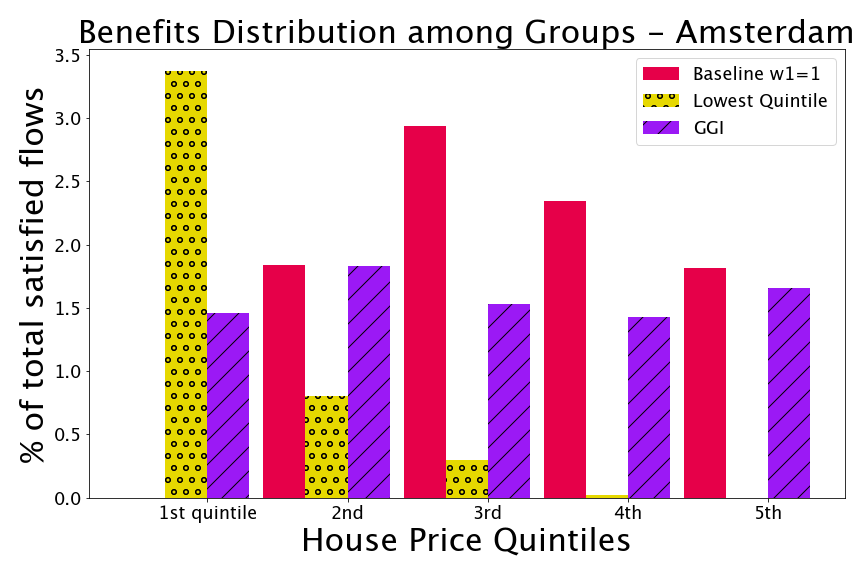
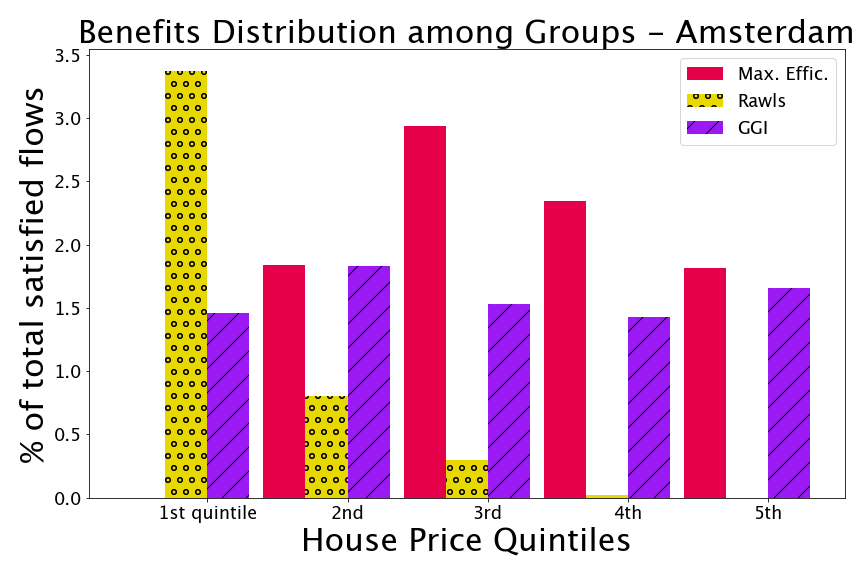
result_plotter now also plots weighted results

Changed region(s): [[0.7188, 0.0938, 0.9688, 0.25]]

diff --git a/result_plotter.py b/result_plotter.py
@@ -3,6 +3,7 @@
 from collections import defaultdict
 from genericpath import isfile
 from pathlib import Path
+from tokenize import group
 from typing import List
 import matplotlib.pyplot as plt
 import json
@@ -84,11 +85,14 @@ def print_stats(df, model:str):
 
     return od, gini, lq
 
-def plot_bar(model_names, model_labels, model_colors, model_hatches, metrics_df: pd.DataFrame, env_name: str, figsize=(10, 5), legend_loc='best'):
+def plot_bar(model_names, model_labels, model_colors, model_hatches, 
+            metrics_df: pd.DataFrame, env_name: str, figsize=(10, 5), 
+            legend_loc='best',
+            group_names=('1st quintile', '2nd', '3rd', '4th', '5th')):
     # https://stackoverflow.com/questions/10369681/how-to-plot-bar-graphs-with-same-x-coordinates-side-by-side-dodged
     # Width of a bar 
     width = 0.3
-    ind = np.arange(5)
+    ind = np.arange(len(group_names))
     xpos = ind
     fig, ax = plt.subplots(figsize=figsize)
     for i, model in enumerate(model_names):
@@ -104,7 +108,7 @@ def plot_bar(model_names, model_labels, model_colors, model_hatches, metrics_df:
     plt.ylabel('% of total satisfied flows', fontsize=32)
     
     plt.title(f"Benefits Distribution among Groups - {env_name}", fontsize=32)
-    plt.xticks(ind + width * 3 / 2, ('1st quintile', '2nd', '3rd', '4th', '5th'))
+    plt.xticks(ind + width * 3 / 2, group_names)
 
     ax.legend(loc=legend_loc)
 
@@ -169,7 +173,7 @@ def plot_scatter(x,y,ax=None, markers=None, labels=None, colors=None, env_name=N
 
     ax.set_xlabel('% of total satisfied flows', fontsize=32)
     ax.set_ylabel('Gini Index', fontsize=32)
-    fig.suptitle(f'Equity vs Utility - {env_name}', fontsize=32)
+    fig.suptitle(f'Equity vs Efficiency - {env_name}', fontsize=32)
     ax.set_ylim((0,0.8))
 
 
@@ -179,7 +183,7 @@ def plot_scatter(x,y,ax=None, markers=None, labels=None, colors=None, env_name=N
     fig.tight_layout()
     return fig
 
-def create_all_plots(env: Environment, metrics_df: pd.DataFrame, metadata: List, bar_plot_models: List, line_plot_models: List, scatter_plot_models: List, scatter_x: List, scatter_y: List, plot_name_prefix: None, env_name=None, figsize=(12,8)):
+def create_all_plots(env: Environment, metrics_df: pd.DataFrame, metadata: List, bar_plot_models: List, line_plot_models: List, scatter_plot_models: List, scatter_x: List, scatter_y: List, plot_name_prefix: None, env_name=None, figsize=(12,8), group_names=('1st quintile', '2nd', '3rd', '4th', '5th')):
     metadata = pd.DataFrame(metadata, columns=['label', 'model', 'color', 'pattern', 'marker'])
     metadata.index = metadata['label']
 
@@ -191,7 +195,8 @@ def create_all_plots(env: Environment, metrics_df: pd.DataFrame, metadata: List,
         bar_models['pattern'].tolist(),
         metrics_df[metrics_df.index.isin(bar_models['model'].tolist())], 
         env_name=env_name, 
-        figsize=figsize)
+        figsize=figsize,
+        group_names=group_names)
 
     bar_fig.savefig(f'./{plot_name_prefix}_bar.png')
 
@@ -234,48 +239,58 @@ metrics_ams['lowest_quintile_sat_od_pct'] = metrics_ams['mean_sat_od_by_group_pc
 metrics_ams['lowest_quintile_sat_od_pct'] = metrics_ams['lowest_quintile_sat_od_pct'] * 100
 metrics_ams.index = metrics_ams['model']
 
-# %% Amsterdam averages calculation
+# %% Amsterdam Income Quintiles averages calculation
 ams_empty_ses1 = metrics_ams[ ((metrics_ams['existing_lines'] == 0) | np.isnan(metrics_ams['existing_lines']))
+                            & (pd.isnull(metrics_ams['group_weights_files']))
                             & (metrics_ams['reward'] == 'weighted') 
                             & (metrics_ams['ses_weight'] == 1)
                             & (metrics_ams['var_lambda'] == 0)]
 
 ams_empty_ses0 = metrics_ams[((metrics_ams['existing_lines'] == 0) | np.isnan(metrics_ams['existing_lines']))
+                            & (pd.isnull(metrics_ams['group_weights_files']))
                             & (metrics_ams['reward'] == 'weighted') 
                             & (metrics_ams['ses_weight'] == 0)
                             & (metrics_ams['var_lambda'] == 0)]
 
 ams_empty_ggi_2 = metrics_ams[((metrics_ams['existing_lines'] == 0) | np.isnan(metrics_ams['existing_lines']))
+                            & (pd.isnull(metrics_ams['group_weights_files']))
                             & (metrics_ams['reward'] == 'ggi') 
                             & (metrics_ams['ggi_weight'] == 2)]
 
 ams_empty_var_3 = metrics_ams[((metrics_ams['existing_lines'] == 0) | np.isnan(metrics_ams['existing_lines']))
+                            & (pd.isnull(metrics_ams['group_weights_files']))
                             & (metrics_ams['reward'] == 'group') 
                             & (metrics_ams['var_lambda'] == 3)]
 
 ams_empty_rawls = metrics_ams[((metrics_ams['existing_lines'] == 0) | np.isnan(metrics_ams['existing_lines']))
+                            & (pd.isnull(metrics_ams['group_weights_files']))
                             & (metrics_ams['reward'] == 'rawls')]
 
 
 ams_full_ses1 = metrics_ams[ ((metrics_ams['existing_lines'] != 0) & ~np.isnan(metrics_ams['existing_lines']))
+                            & (pd.isnull(metrics_ams['group_weights_files']))
                             & (metrics_ams['reward'] == 'weighted') 
                             & (metrics_ams['ses_weight'] == 1)
                             & (metrics_ams['var_lambda'] == 0)]
 
 ams_full_ses0 = metrics_ams[((metrics_ams['existing_lines'] != 0) & ~np.isnan(metrics_ams['existing_lines']))
+                            & (pd.isnull(metrics_ams['group_weights_files']))
                             & (metrics_ams['reward'] == 'weighted') 
                             & (metrics_ams['ses_weight'] == 0)
                             & (metrics_ams['var_lambda'] == 0)]
 
 ams_full_var_3 = metrics_ams[((metrics_ams['existing_lines'] != 0) & ~np.isnan(metrics_ams['existing_lines']))
+                            & (pd.isnull(metrics_ams['group_weights_files']))
                             & (metrics_ams['reward'] == 'group') 
                             & (metrics_ams['var_lambda'] == 3)]
 
 ams_full_ggi_2 = metrics_ams[((metrics_ams['existing_lines'] != 0) & ~np.isnan(metrics_ams['existing_lines']))
+                            & (pd.isnull(metrics_ams['group_weights_files']))
                             & (metrics_ams['reward'] == 'ggi') 
                             & (metrics_ams['ggi_weight'] == 2)]
 
 ams_full_rawls = metrics_ams[((metrics_ams['existing_lines'] != 0) & ~np.isnan(metrics_ams['existing_lines']))
+                            & (pd.isnull(metrics_ams['group_weights_files']))
                             & (metrics_ams['reward'] == 'rawls')]
 
 
@@ -294,17 +309,17 @@ ams_empty_ggi_2_od, ams_empty_ggi_2_gini, ams_empty_ggi_2_lq = print_stats(ams_e
 #%% Amsterdam Full environment
 
 ams_full_plot = [
-    ['Baseline w1=1',   'amsterdam_20220810_09_33_35.507895', cp[0], '', 'o'],
-    ['Baseline w2=1',   'amsterdam_20220807_22_43_37.708173', cp[1], '-', 's'],
+    ['Max. Effic.',   'amsterdam_20220810_09_33_35.507895', cp[0], '', 'o'],
+    ['Access. Index',   'amsterdam_20220807_22_43_37.708173', cp[1], '-', 's'],
     ['Var.Reg',         'amsterdam_20220809_00_40_57.169847', cp[2], '+', '^'],
-    ['Lowest Quintile', 'amsterdam_20220808_11_53_12.554688', cp[3], 'o', 'v'],
+    ['Rawls',           'amsterdam_20220808_11_53_12.554688', cp[3], 'o', 'v'],
     ['GGI',             'amsterdam_20220810_20_23_40.289417', cp[4], '/', 'D'],
 ]
 
 create_all_plots(amsterdam, metrics_ams, ams_full_plot, 
-    bar_plot_models=['Baseline w1=1', 'Lowest Quintile', 'GGI'],
-    line_plot_models=['Baseline w1=1', 'Baseline w2=1', 'Lowest Quintile', 'GGI', 'Var.Reg'],
-    scatter_plot_models=['Baseline w1=1', 'Baseline w2=1', 'Var.Reg', 'Lowest Quintile', 'GGI'],
+    bar_plot_models=['Max. Effic.', 'Rawls', 'GGI'],
+    line_plot_models=['Max. Effic.', 'Access. Index', 'Rawls', 'GGI', 'Var.Reg'],
+    scatter_plot_models=['Max. Effic.', 'Access. Index', 'Var.Reg', 'Rawls', 'GGI'],
     scatter_x=[ams_full_ses0_od, ams_full_ses1_od, ams_full_var_3_od, ams_full_rawls_od, ams_full_ggi_2_od],
     scatter_y=[ams_full_ses0_gini, ams_full_ses1_gini, ams_full_var_3_gini, ams_full_rawls_gini, ams_full_ggi_2_gini],
     plot_name_prefix='ams_full',
@@ -312,21 +327,74 @@ create_all_plots(amsterdam, metrics_ams, ams_full_plot,
 
 
 ams_empty_plot = [
-    ['Baseline w1=1',   'amsterdam_20220705_18_17_31.196986', cp[0], '', 'o'],
-    ['Baseline w2=1',   'amsterdam_20220705_18_25_09.654804', cp[1], '-', 's'],
+    ['Max. Effic.',   'amsterdam_20220705_18_17_31.196986', cp[0], '', 'o'],
+    ['Access. Index',   'amsterdam_20220705_18_25_09.654804', cp[1], '-', 's'],
     ['Var.Reg',         'amsterdam_20220706_11_15_16.765435', cp[2], '+', '^'],
-    ['Lowest Quintile', 'amsterdam_20220810_09_26_45.963603', cp[3], 'o', 'v'],
+    ['Rawls', 'amsterdam_20220810_09_26_45.963603', cp[3], 'o', 'v'],
     ['GGI',             'amsterdam_20220708_11_21_23.191428', cp[4], '/', 'D'],
 ]
 
 create_all_plots(amsterdam, metrics_ams, ams_empty_plot, 
-    bar_plot_models=['Baseline w1=1', 'Lowest Quintile', 'GGI'],
-    line_plot_models=['Baseline w1=1', 'Baseline w2=1', 'Lowest Quintile', 'GGI', 'Var.Reg'],
-    scatter_plot_models=['Baseline w1=1', 'Baseline w2=1', 'Var.Reg', 'Lowest Quintile', 'GGI'],
+    bar_plot_models=['Max. Effic.', 'Rawls', 'GGI'],
+    line_plot_models=['Max. Effic.', 'Access. Index', 'Rawls', 'GGI', 'Var.Reg'],
+    scatter_plot_models=['Max. Effic.', 'Access. Index', 'Var.Reg', 'Rawls', 'GGI'],
     scatter_x=[ams_empty_ses0_od, ams_empty_ses1_od, ams_empty_var_3_od, ams_empty_rawls_od, ams_empty_ggi_2_od],
     scatter_y=[ams_empty_ses0_gini, ams_empty_ses1_gini, ams_empty_var_3_gini, ams_empty_rawls_gini, ams_empty_ggi_2_gini],
     plot_name_prefix='ams_empty',
     env_name='Amsterdam')
+
+
+#%% Amsterdam Weighted groups Experiment (Western-non-western)
+ams_w_empty_ses1 = metrics_ams[ ((metrics_ams['existing_lines'] == 0) | np.isnan(metrics_ams['existing_lines']))
+                            & (~pd.isnull(metrics_ams['group_weights_files']))
+                            & (metrics_ams['reward'] == 'weighted') 
+                            & (metrics_ams['ses_weight'] == 1)
+                            & (metrics_ams['var_lambda'] == 0)]
+
+ams_w_empty_ses0 = metrics_ams[((metrics_ams['existing_lines'] == 0) | np.isnan(metrics_ams['existing_lines']))
+                            & (~pd.isnull(metrics_ams['group_weights_files']))
+                            & (metrics_ams['reward'] == 'weighted') 
+                            & (metrics_ams['ses_weight'] == 0)
+                            & (metrics_ams['var_lambda'] == 0)]
+
+ams_w_empty_ggi_2 = metrics_ams[((metrics_ams['existing_lines'] == 0) | np.isnan(metrics_ams['existing_lines']))
+                            & (~pd.isnull(metrics_ams['group_weights_files']))
+                            & (metrics_ams['reward'] == 'ggi') 
+                            & (metrics_ams['ggi_weight'] == 2)]
+
+ams_w_empty_var_3 = metrics_ams[((metrics_ams['existing_lines'] == 0) | np.isnan(metrics_ams['existing_lines']))
+                            & (~pd.isnull(metrics_ams['group_weights_files']))
+                            & (metrics_ams['reward'] == 'group') 
+                            & (metrics_ams['var_lambda'] == 3)]
+
+ams_w_empty_rawls = metrics_ams[((metrics_ams['existing_lines'] == 0) | np.isnan(metrics_ams['existing_lines']))
+                            & (~pd.isnull(metrics_ams['group_weights_files']))
+                            & (metrics_ams['actor_lr'] == 15e-4)
+                            & (metrics_ams['reward'] == 'rawls')]
+
+ams_w_empty_ses1_od, ams_w_empty_ses1_gini, ams_w_empty_ses1_lq =  print_stats(ams_w_empty_ses1, 'ams_w_empty_ses1')
+ams_w_empty_ses0_od, ams_w_empty_ses0_gini, ams_w_empty_ses0_lq =  print_stats(ams_w_empty_ses0, 'ams_w_empty_ses_0')
+ams_w_empty_ggi_2_od, ams_w_empty_ggi_2_gini, ams_w_empty_ggi_2_lq = print_stats(ams_w_empty_ggi_2, 'ams_w_empty_ggi_2')
+ams_w_empty_var_3_od, ams_w_empty_var_3_gini, ams_w_empty_var_3_lq = print_stats(ams_w_empty_var_3, 'ams_w_empty_var_3')
+ams_w_empty_rawls_od, ams_w_empty_rawls_gini, ams_w_empty_rawls_lq = print_stats(ams_w_empty_rawls, 'ams_w_empty_rawls')
+
+ams_w_empty_plot = [
+    ['Max. Effic.',     'amsterdam_20221025_18_07_17.271867', cp[0], '', 'o'],
+    ['Access. Index',   'amsterdam_20221026_16_31_11.370638', cp[1], '-', 's'],
+    ['Var.Reg',         'amsterdam_20221026_18_17_07.310764', cp[2], '+', '^'],
+    ['Rawls',           'amsterdam_20221027_09_51_21.915196', cp[3], 'o', 'v'],
+    ['GGI',             'amsterdam_20221026_17_28_17.106600', cp[4], '/', 'D'],
+]
+
+create_all_plots(amsterdam, metrics_ams, ams_w_empty_plot, 
+    bar_plot_models=['Max. Effic.', 'Rawls', 'GGI'],
+    line_plot_models=['Max. Effic.', 'Access. Index', 'Rawls', 'GGI', 'Var.Reg'],
+    scatter_plot_models=['Max. Effic.', 'Access. Index', 'Var.Reg', 'Rawls', 'GGI'],
+    scatter_x=[ams_w_empty_ses0_od, ams_w_empty_ses1_od, ams_w_empty_var_3_od, ams_w_empty_rawls_od, ams_w_empty_ggi_2_od],
+    scatter_y=[ams_w_empty_ses0_gini, ams_w_empty_ses1_gini, ams_w_empty_var_3_gini, ams_w_empty_rawls_gini, ams_w_empty_ggi_2_gini],
+    plot_name_prefix='ams_w_empty',
+    env_name='Amsterdam',
+    group_names=('Dutch/Western', 'Non-Western'))
 
 
 #%% XIAN
@@ -374,18 +442,18 @@ xian_full_ggi_4_od, xian_full_ggi_4_gini, xian_full_ggi_4_lq = print_stats(xian_
 
 
 xian_full_plot = [
-    ['Baseline w1=1',   'xian_20220812_09_42_57.652815', cp[0], '', 'o'],
-    ['Baseline w2=1',   'xian_20220812_14_44_22.783845', cp[1], '-', 's'],
+    ['Max. Effic.',   'xian_20220812_09_42_57.652815', cp[0], '', 'o'],
+    ['Access. Index',   'xian_20220812_14_44_22.783845', cp[1], '-', 's'],
     ['Var.Reg',         'xian_20220811_22_41_02.456631', cp[2], '+', '^'],
-    ['Lowest Quintile', 'xian_20220813_09_28_43.208981', cp[3], 'o', 'v'],
+    ['Rawls', 'xian_20220813_09_28_43.208981', cp[3], 'o', 'v'],
     # ['GGI',             'xian_20220812_18_59_40.094535', cp[4], '/', 'D'],
     ['GGI',             'xian_20220814_12_10_27.594976', cp[4], '/', 'D'],
 ]
 
 create_all_plots(xian, metrics_xian, xian_full_plot, 
-    bar_plot_models=['Baseline w1=1', 'Lowest Quintile', 'GGI'],
-    line_plot_models=['Baseline w1=1', 'Baseline w2=1', 'Var.Reg', 'Lowest Quintile', 'GGI'],
-    scatter_plot_models=['Baseline w1=1', 'Baseline w2=1', 'Var.Reg', 'Lowest Quintile', 'GGI'],
+    bar_plot_models=['Max. Effic.', 'Rawls', 'GGI'],
+    line_plot_models=['Max. Effic.', 'Access. Index', 'Var.Reg', 'Rawls', 'GGI'],
+    scatter_plot_models=['Max. Effic.', 'Access. Index', 'Var.Reg', 'Rawls', 'GGI'],
     scatter_x=[xian_full_ses0_od, xian_full_ses1_od, xian_full_var_5_od, xian_full_rawls_od, xian_full_ggi_4_od],
     scatter_y=[xian_full_ses0_gini, xian_full_ses1_gini, xian_full_var_5_gini, xian_full_rawls_gini, xian_full_ggi_4_gini],
     plot_name_prefix='xian_full', 
